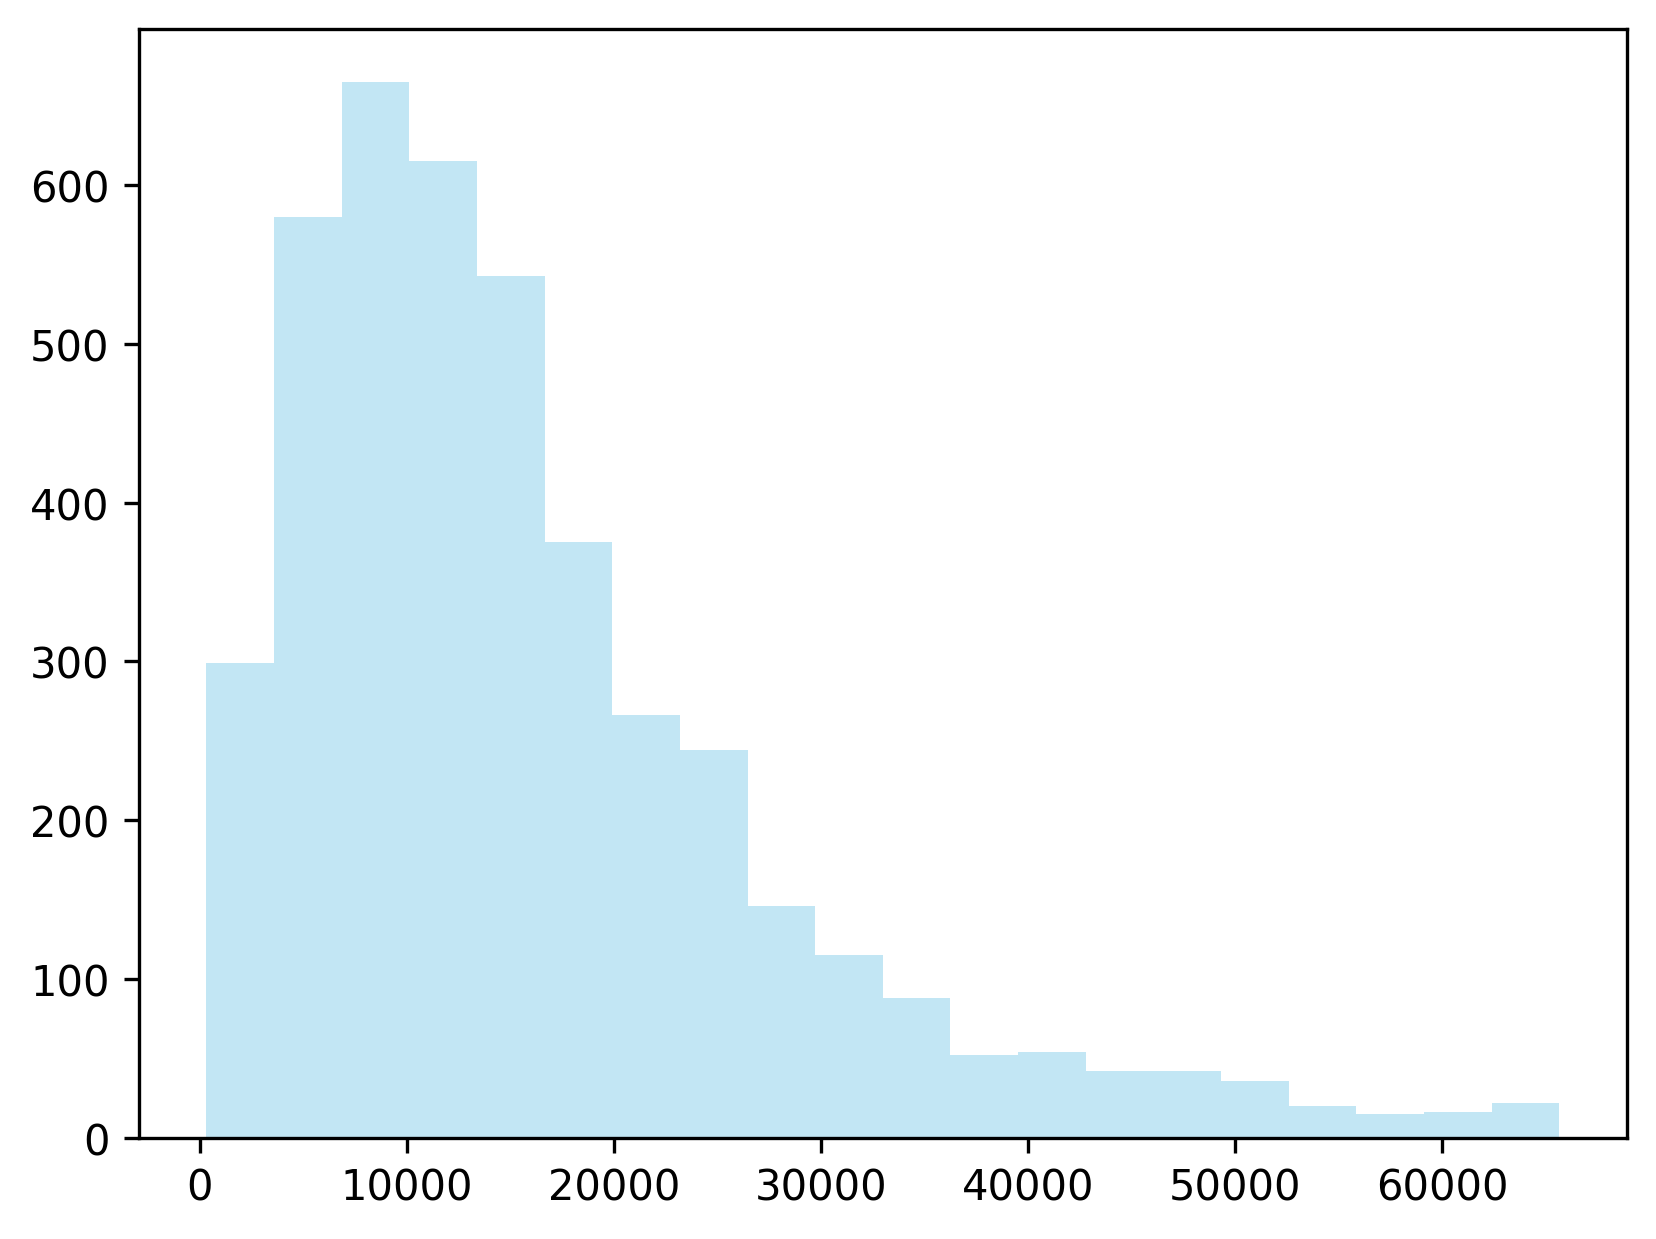
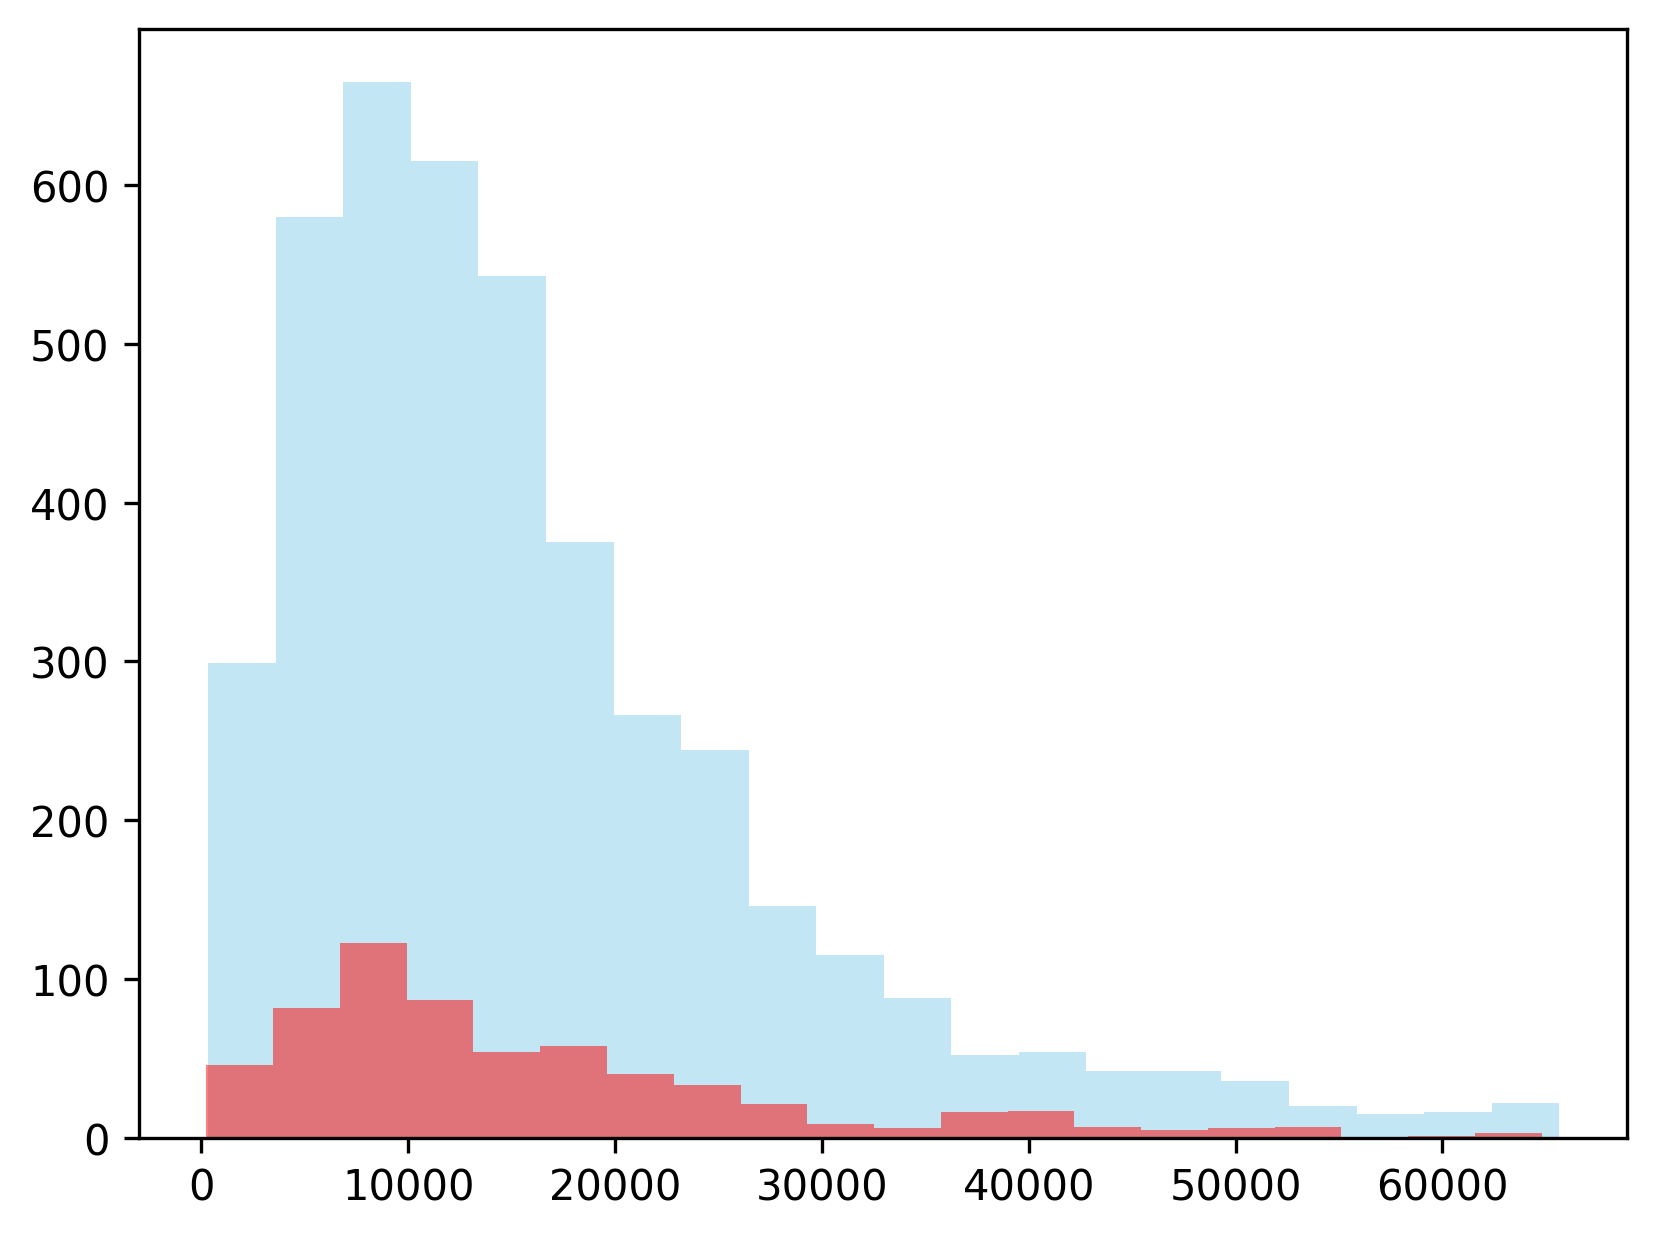
description

diff --git a/snippet.py b/snippet.py
@@ -104,10 +104,10 @@ df = df["data"]
 print(df.mean(numeric_only=True))
 df_filtered = df[
     np.abs((df["kingaku"] - df["kingaku"].mean()) / (df["kingaku"].std())) < 2
-]
-df1 = df_filtered.loc[df["chumon"] == "通"]
+]  # 金額について外れ値除外
+df1 = df_filtered.loc[df["chumon"] == "通"]  # 特定のデータ抜粋
 df2 = df_filtered.loc[df["chumon"] == "ONEクリック"]
 plt.figure()
 plt.hist(df1["kingaku"].tolist(), bins=20, color="skyblue", alpha=0.5)
-# plt.hist(df2["kingaku"].tolist(), bins=20, color="red", alpha=0.5)
+plt.hist(df2["kingaku"].tolist(), bins=20, color="red", alpha=0.5)
 plt.savefig("histogram.png", dpi=300, bbox_inches="tight")
